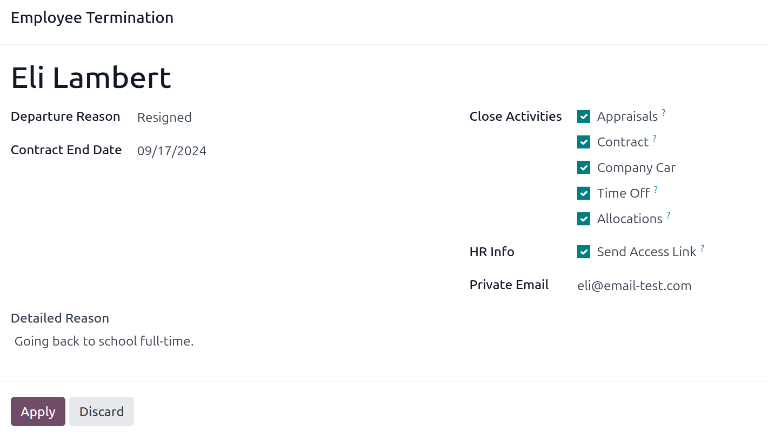
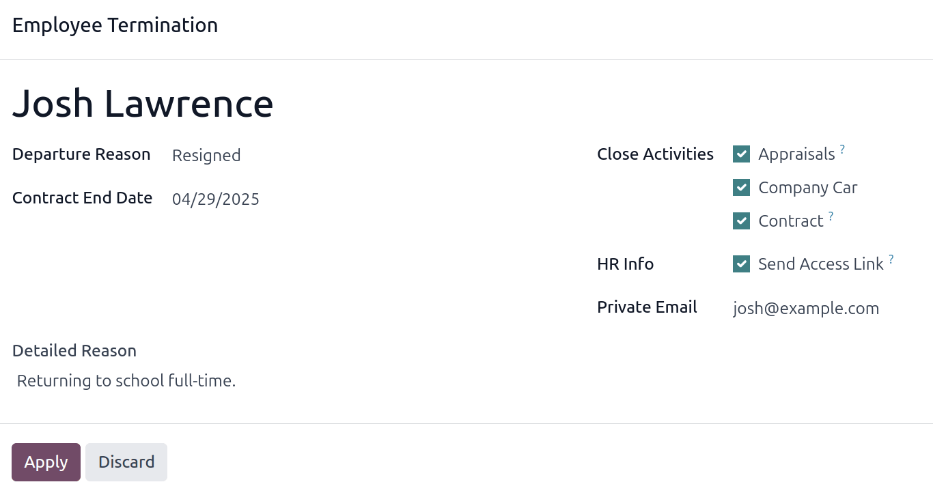
[IMP] Employees: Update offboarding
X-original-commit: 086015a6923f43cc8cfc91685445b0f5b16083fc

diff --git a/content/applications/hr/employees/offboarding.rst b/content/applications/hr/employees/offboarding.rst
@@ -2,16 +2,164 @@
 Offboarding
 ===========
 
-When an employee leaves the company, it is important to ensure their employee record is updated to
-reflect their departure, log the reason why, close any open activities associated with the
-employee, and provide them with any important documents.
+When an employee leaves the company, it is important to have an :ref:`offboarding plan
+<employees/offboarding>` to ensure all necessary steps are followed, such as returning equipment,
+revoking access to business systems, filling out HR forms, having an exit interview, and more.
+Depending on the company, there could be several different offboarding plans, configured for
+specific departments or divisions, that have different requirements and steps from the main
+offboarding plan.
+
+In addition to an offboarding plan, the employee record must be :ref:`updated to reflect their
+departure <employees/archive>`, log the reason why they left, close any open activities associated
+with the employee, and :ref:`provide them with any important documents <employees/send-link>`.
+
+.. _employees/offboarding:
+
+View offboarding plan
+=====================
+
+Before offboarding can begin, it is recommended to check the default offboarding plan that comes
+preconfigured with the **Employees** app. To view the current default plan, navigate to
+:menuselection:`Employees app --> Configuration --> Activity Plan`. Click :guilabel:`Offboarding` to
+view the detailed offboarding plan form.
+
+Offboarding plan steps
+----------------------
+
+The default :guilabel:`Offboarding` plan is minimal, with two default steps (three if the **Fleet**
+app is installed). All steps are :guilabel:`To-Do` activities, and are scheduled for the day the
+offboarding plan is launched (:guilabel:`0 days Before Plan Date`).
+
+- :guilabel:`Organize knowledge transfer inside the team`: The manager must ensure all knowledge the
+  employee has relating to their job position, is either documented or shared with colleagues so
+  there is no knowledge gap.
+- :guilabel:`Take Back Fleet`: The fleet manager ensures any vehicles assigned to the employee are
+  either unassigned (available for other employees) or the next driver is assigned. This step only
+  appears if the **Fleet** app is installed.
+- :guilabel:`Take Back HR Materials`: The manager must obtain any documents and materials the HR
+  department requires. It is recommended to check with the HR department to ensure everything
+  required for this step is completed.
+
+.. image:: offboarding/offboarding.png
+   :alt: The three default steps in the Offboarding plan.
+
+Modify offboarding plan
+=======================
+
+The default offboarding plan is minimal, so that modifications can be made to accommodate any
+company's offboarding needs. Every company has different requirements, therefore it is necessary to
+add the required steps to the offboarding plan.
+
+If the offboarding plan is universal, add or modify the default offboarding plan. If the offboarding
+plan needed is only for a specific department, then a new plan should be created, specifically for
+that department.
+
+To modify the default plan, first navigate to :menuselection:`Employees app --> Configuration -->
+Activity Plan`, then click on :guilabel:`Offboarding`.
+
+To modify a step, click on the step and an :guilabel:`Open: Activities` pop-up window appears. Make
+any desired modifications to the step, then click :guilabel:`Save` to accept the changes and close
+the pop-up window.
+
+To add a new step, click :guilabel:`Add a line` at the bottom of the listed activities in the
+:guilabel:`Activities To Create` tab, and a blank :guilabel:`Create Activities` pop-up window
+appears. Enter all the information in the pop-up window, then click :guilabel:`Save & Close` if
+there are no other steps to add, or click :guilabel:`Save & New` if more steps are needed.
+
+Configure all the desired steps for the offboarding plan.
+
+Create offboarding plan
+=======================
+
+For some companies, specific offboarding plans may be necessary for some departments. For these
+cases, a new department-specific offboarding plan may be needed.
+
+To create a new offboarding plan, first navigate to :menuselection:`Employees app -->
+Configuration --> Activity Plan`. Click the :guilabel:`New` button in the upper-left corner, and a
+blank plan form loads.
+
+Enter the following information on the form:
+
+- :guilabel:`Plan Name`: the specific name for the plan.
+- :guilabel:`Model`: This field specifies where this plan can be used. In this case, in the
+  **Employees** app. This field is not able to be modified.
+- :guilabel:`Department`: if left blank (the default setting) the plan is available for all
+  departments. To make the plan department-specific, select a department using the drop-down menu.
+
+Next, add the various steps for the plan by clicking :guilabel:`Add a line` at the bottom of the
+listed activities in the :guilabel:`Activities To Create` tab, and a blank :guilabel:`Create
+Activities` pop-up window appears.
+
+Enter the following information in the pop-up window:
+
+- :guilabel:`Activity Type`: Using the drop-down menu, select the specific activity to be scheduled.
+  The default options are :guilabel:`Email`, :guilabel:`Call`, :guilabel:`Meeting`,
+  :guilabel:`To-Do`, or :guilabel:`Upload Document`. If the **Sign** app is installed, a
+  :guilabel:`Request Signature` option is available.
+- :guilabel:`Summary`: Enter a short description for the step.
+- :guilabel:`Assignment`: Using the drop-down menu, select the person assigned to perform the
+  activity. The default options are: :guilabel:`Ask at launch`, :guilabel:`Default user`,
+  :guilabel:`Coach`, :guilabel:`Manager`, and :guilabel:`Employee`. If the **Fleet** app is
+  installed, a :guilabel:`Fleet Manager` option is available.
+
+  .. note::
+     The selection for the :guilabel:`Assignment` role is in relation to the employee. If
+     :guilabel:`Coach` is selected, the employee's coach is assigned to the activity.
+
+     If :guilabel:`Default user` is selected, an :guilabel:`Assigned to` field appears. Using the
+     drop-down menu, select the user who will always be assigned this activity.
+
+- :guilabel:`Interval`: Configure the fields in this line to determine the due date of the activity.
+  Enter a number in the first field, then, using the drop-down menus in the following two fields,
+  configure when the due date should be created; (`#`) of :guilabel:`days`, :guilabel:`weeks`, or
+  :guilabel:`months`, either :guilabel:`Before Plan Date` or :guilabel:`After Plan Date`.
+
+When the :guilabel:`Create Activities` for is completed, click :guilabel:`Save & Close` if there are
+no other steps to add, or click :guilabel:`Save & New` to add more steps, as needed.
+
+.. example::
+   A company specializing in after-school art programs has two separate offboarding plans, one for
+   the teachers working in the field, and one for office workers.
+
+   The offboarding plan for the teachers is set for the :guilabel:`Art Program Teachers` department,
+   and includes specialized tasks relating to those jobs. These include ensuring all art supplies
+   are catalogued and returned, all student feedback forms are turned in, and all access badges and
+   keys for the various locations are returned.
+
+   .. image:: offboarding/offboarding-teachers.png
+      :alt: An offboarding plan configured for art teachers.
+
+Launch offboarding plan
+=======================
+
+After an employee has given notice (typically two weeks) or once the company has decided to
+terminate the working relationship with the employee, the offboarding plan should be launched.
+Navigate to the :menuselection:`Employees app` and click on the departing employee profile. Click
+the :guilabel:`Launch Plan` button, and a blank :guilabel:`Launch Plan` pop-up window loads.
+
+.. image:: offboarding/launch-plan-button.png
+   :alt: The Launch Plan button on the employee profile.
+
+Using the drop-down menu, select the desired offboarding plan in the :guilabel:`Plan` field. Then,
+using the calendar selector, set a date in the :guilabel:`Plan Date` field. This is typically the
+day the employee gave notice, but any date can be selected.
+
+The right-side of the :guilabel:`Launch Plan` pop-up window displays all the steps in the selected
+plan, grouped by what was selected in the :guilabel:`Assignment` fields for the various plan steps.
+
+Once the :guilabel:`Plan` and :guilabel:`Plan Date` fields are configured, click the
+:guilabel:`Schedule` button, and Odoo schedules everything in the plan, according to their
+respective due dates. All scheduled activities appear in the chatter of the employee profile.
+
+.. _employees/archive:
 
 Archive an employee
 ===================
 
-In Odoo, when an employee leaves the company they must be *archived*. To archive an employee, first
-navigate to the :menuselection:`Employees app`. From here, locate the employee who is leaving the
-company, and click on their employee card.
+In Odoo, when an employee leaves the company they must be *archived*. This step should be done
+*after* the employee has been fully offboarded. To archive an employee, first navigate to the
+:menuselection:`Employees app`. From here, locate the employee who is leaving the company, and click
+on their employee card.
 
 The employee form loads, displaying all their information. Click the :icon:`fa-gear`
 :guilabel:`(gear)` icon in the top-left corner, and a drop-down menu appears. Click
@@ -27,9 +175,11 @@ Fill out the following fields on the form:
     given notice.
   - :guilabel:`Resigned`: Select this option when the employee no longer wishes to be employed, and
     the employee has given notice.
-  - :guilabel:`Retired`: Select this option when the employee is retiring.
+  - :guilabel:`Resigned: Retired`: Select this option when the employee is retiring.
   - :guilabel:`Became Freelance`: Select this option when the employee is no longer working for the
     company, but is becoming a freelance worker instead.
+  - :guilabel:`Mutual Agreement`: Select this option when both parties have agreed to terminate
+    their working relationship.
 
 - :guilabel:`Contract End Date`: Using the calendar selector, select the last day the employee is
   working for the company.
@@ -42,13 +192,13 @@ Fill out the following fields on the form:
   - :guilabel:`Contract`: applies an end date for the current contract.
   - :guilabel:`Company Car`: removes the employee as the driver for their current company car, and
     :ref:`assigns the next driver <fleet/new_vehicle/new-driver>`, if applicable.
-  - :guilabel:`Time Off`: cancels any time off requests after the contract end date.
-  - :guilabel:`Allocations`: removes the employee from any accrual plans they are on.
+  - :guilabel:`Equipment`: unassigns the employee from any assigned equipment.
 
 - :guilabel:`HR Info`: Tick the checkbox next to :guilabel:`Send Access Link` to send a download
   link to the employee's personal email address, containing all their personal HR files.
-- :guilabel:`Private Email`: This field appears if the :guilabel:`HR Info` checkbox is ticked. Enter
-  the private email address for the employee.
+- :guilabel:`Private Email`: This field appears if the :guilabel:`HR Info` checkbox is ticked. If
+  there is a private email listed on the employee profile, this field is automatically populated. If
+  no private email address is on their record, enter the private email address for the employee.
 
 When the form is complete, click :guilabel:`Apply`. The employee record is archived, an email with a
 download link to their personal documents is sent to the employee's private email address (if
@@ -57,7 +207,6 @@ form. The chatter logs the :guilabel:`Departure Date` and :guilabel:`Departure R
 access link was emailed.
 
 .. image:: offboarding/termination.png
-   :align: center
    :alt: The employee termination form with all fields filled out.
 
 .. note::
